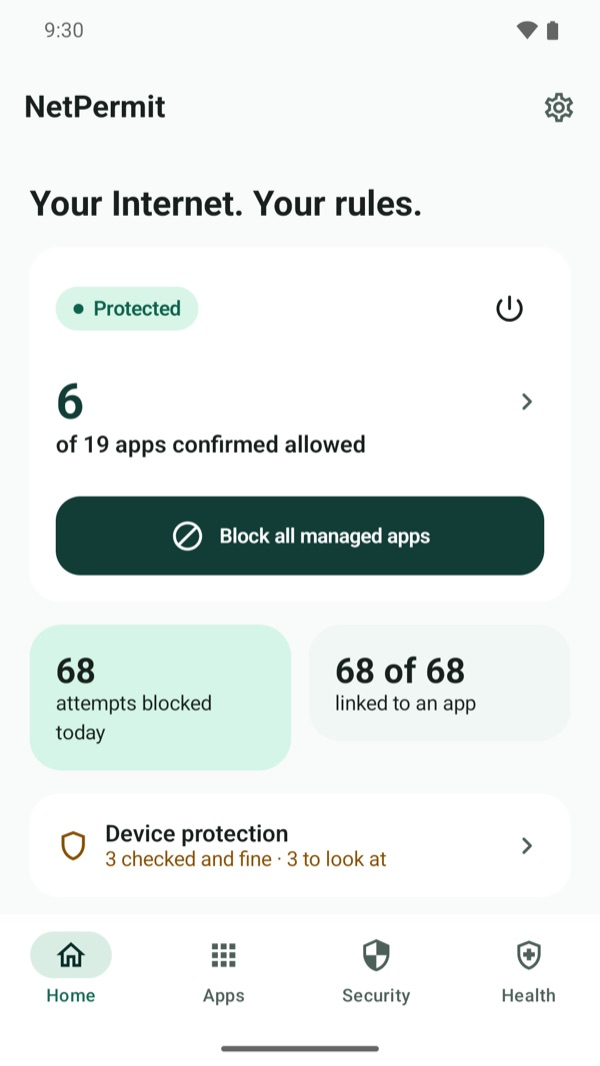
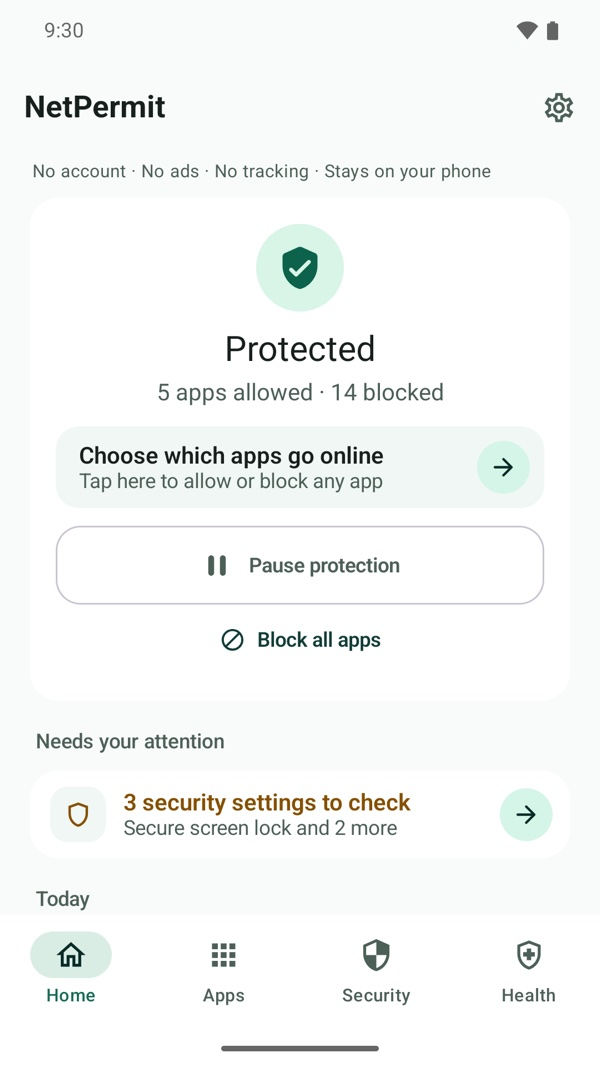
Build 10003: the guide, the privacy policy, the code maker's times, new pictures

diff --git a/maker.html b/maker.html
@@ -2,7 +2,7 @@
 <html lang="en">
 <head>
 <meta charset="utf-8">
-<meta http-equiv="Content-Security-Policy" content="default-src &#x27;none&#x27;; script-src &#x27;sha256-Tr03zSaOhH9XAYu4BYlneLDS7ZedYHuxEytHPte2XJQ=&#x27;; style-src &#x27;sha256-Qq+jYHkqgcq6RdACGlnDqksi6kZC2Gv7r2hBHCYuzGs=&#x27;; img-src &#x27;self&#x27; blob: data:; manifest-src &#x27;self&#x27;; base-uri &#x27;none&#x27;; form-action &#x27;none&#x27;">
+<meta http-equiv="Content-Security-Policy" content="default-src &#x27;none&#x27;; script-src &#x27;sha256-9wECum9mWq9CWfocOMv4rL7bZEbzpw2tdsrkdQMjoQg=&#x27;; style-src &#x27;sha256-e536MginbBdAjGdqKJFLe8NurTq5miR6hAd1Px3ku3w=&#x27;; img-src &#x27;self&#x27; blob: data:; manifest-src &#x27;self&#x27;; base-uri &#x27;none&#x27;; form-action &#x27;none&#x27;">
 <meta name="viewport" content="width=device-width, initial-scale=1, viewport-fit=cover">
 <title>NetPermit codes</title>
 <meta name="robots" content="noindex, nofollow">
@@ -45,6 +45,9 @@ button:disabled { opacity: .5; cursor: default; }
 label { display: block; font-weight: 600; margin: 14px 0 6px; }
 input { font: inherit; width: 100%; padding: 12px; border-radius: 10px; border: 1px solid var(--line); background: var(--bg); color: var(--ink); }
 input.code { letter-spacing: .08em; text-transform: uppercase; }
+input.amount { width: 6.5em; flex: 0 0 auto; }
+select { font: inherit; padding: 12px; border-radius: 10px; border: 1px solid var(--line); background: var(--bg); color: var(--ink); }
+#other-part { align-items: center; }
 details { margin-top: 14px; }
 summary { cursor: pointer; color: var(--accent); font-weight: 600; padding: 6px 0; }
 .qr { background: #ffffff; border-radius: 12px; padding: 4px; margin: 4px auto 14px; max-width: 320px; }
@@ -146,11 +149,24 @@ dialog li { margin-bottom: 10px; }
       <div id="any-part">
         <label>If nobody uses it, it stops working after</label>
         <div class="row" id="within">
+          <button class="pick" type="button" data-within="10m" aria-pressed="false">10 minutes</button>
+          <button class="pick" type="button" data-within="1h" aria-pressed="false">1 hour</button>
           <button class="pick" type="button" data-within="48h" aria-pressed="true">48 hours</button>
           <button class="pick" type="button" data-within="14d" aria-pressed="false">14 days</button>
           <button class="pick" type="button" data-within="60d" aria-pressed="false">60 days</button>
+          <button class="pick" type="button" data-within="other" aria-pressed="false">Other</button>
+        </div>
+        <div class="row gap" id="other-part" hidden>
+          <input class="amount" id="other-amount" type="number" min="1" max="999999" step="1" value="30" inputmode="numeric" aria-label="How long">
+          <select id="other-unit" aria-label="Minutes, hours or days">
+            <option value="m">minutes</option>
+            <option value="h">hours</option>
+            <option value="d">days</option>
+          </select>
+          <span class="soft">From 5 minutes to 365 days.</span>
         </div>
         <p class="soft gap">Until then it works on every phone it reaches, so shorter is safer.</p>
+        <p class="soft" id="short-note" hidden>A time that is not a whole number of days goes by the clock of the phone that uses the code, and that phone needs NetPermit build 10003 or newer. An older build says the code is not valid.</p>
       </div>
       <div id="one-part" hidden>
         <label for="phone">That phone's code</label>
@@ -216,7 +232,8 @@ dialog li { margin-bottom: 10px; }
     <h2>How codes work</h2>
     <ul>
       <li><strong>One phone only.</strong> Works on that phone and no other, so it cannot be passed on. It never expires. You need that phone's code first: in NetPermit, the gear, Plans, under "Have a code?".</li>
-      <li><strong>Any phone.</strong> Works on every phone it reaches until it stops: after 48 hours, or after 14 or 60 days if you choose that. Send it to one person. Never post it.</li>
+      <li><strong>Any phone.</strong> Works on every phone it reaches until it stops: after 48 hours, or after the time you choose, from 5 minutes to 365 days. Send it to one person. Never post it.</li>
+      <li><strong>Short times.</strong> A time in whole days works with every build. Any other time, such as 10 minutes or 1 hour, goes by the clock of the phone that uses the code, and that phone needs NetPermit build 10003 or newer.</li>
       <li><strong>Once per phone.</strong> A phone accepts a code one time. The 7 days, 30 days or year start when the code is used, not when you make it. If the app is erased and installed again, a code that has not stopped works again on that phone.</li>
       <li><strong>Sent is sent.</strong> A code cannot be cancelled. For anything valuable, above all a permanent gift, choose One phone only.</li>
       <li><strong>Gifts, not sales.</strong> Google requires anything sold in the app to go through Google Play.</li>
@@ -860,6 +877,21 @@ const core = (() => {
   pick('plans', 'plan', (button) => button.dataset.plan);
   pick('kinds', 'kind', (button) => button.dataset.kind);
   pick('within', 'within', (button) => button.dataset.within);
+  // What "Other" stands for: the number and the unit as one word, "25m", "3h" or "5d".
+  function chosenWait() {
+    if (choice.within !== 'other') return choice.within;
+    const amount = Math.floor(Number($('other-amount').value));
+    return (amount > 0 ? amount : 0) + $('other-unit').value;
+  }
+  // Whole days are read by every build; anything else needs the newer one, and the page says so.
+  function showWaitNotes() {
+    $('other-part').hidden = choice.within !== 'other';
+    const minutes = core.waitMinutes(chosenWait());
+    $('short-note').hidden = minutes === null || minutes % 1440 === 0;
+  }
+  $('within').addEventListener('click', showWaitNotes);
+  $('other-amount').addEventListener('input', showWaitNotes);
+  $('other-unit').addEventListener('change', showWaitNotes);
   $('kinds').addEventListener('click', () => {
     $('any-part').hidden = choice.kind !== 'any';
     $('one-part').hidden = choice.kind !== 'one';
@@ -908,10 +940,11 @@ const core = (() => {
       phone = core.phoneBytes($('phone').value.trim());
       if (!phone) return say('problem', 'Type that phone\'s code first. It is eight letters and digits, shown in NetPermit on the Plans page under "Have a code?", for example K7QF-2M9X.');
     }
-    // The page offers whole days only (48 hours, 14 days, 60 days). A time to the minute is read
-    // by build 10003 and later, and is not offered here until that build is the one people have.
-    const wait = core.WAITS[choice.within];
-    if (!onePhone && !(wait % 1440 === 0)) return say('problem', 'Choose how long it can wait to be used.');
+    // One of the buttons, or "Other": a number and a unit, between five minutes and a year. A time
+    // that is not whole days is kept to the minute, which build 10003 and later read; the page
+    // says so beside the choice and again with the code.
+    const wait = onePhone ? null : core.waitMinutes(chosenWait());
+    if (!onePhone && wait === null) return say('problem', 'Choose how long it can wait to be used: from 5 minutes to 365 days.');
     const note = $('note').value.trim().slice(0, 120);
     const now = new Date();
     const last = core.lastUseFor(onePhone, wait, now.getTime());

diff --git a/how-to.html b/how-to.html
@@ -68,8 +68,20 @@
 <p>It starts blocked. NetPermit sends a notification with two buttons, <strong>Allow</strong> and
 <strong>Keep blocked</strong>. You can also change it later in Apps.</p>
 
+<h3>When an app you blocked won't load</h3>
+<p>If you open an app NetPermit is blocking and it tries to go online, Home says so under
+<strong>Needs your attention</strong>: the app wanted to go online, with <strong>Allow</strong> and
+<strong>Keep blocked</strong> beside it. Keep blocked means NetPermit does not ask about that app
+again.</p>
+<p>You can have the same question as a notification, so it reaches you inside the app that will not
+load. Open <strong>Settings and more</strong>, then <strong>Settings</strong>, and switch on
+<strong>Ask me about a blocked app I am using</strong>. It is off until you turn it on, it asks once
+per app, and it never asks about what runs in the background. To tell which app you have open,
+NetPermit needs Android's Usage Access, which only you can give; the app takes you to the page.
+On Plus and Pro the notification also offers 15 minutes.</p>
+
 <h3>Seeing what blocked apps tried to do</h3>
-<p>On Home, tap <strong>attempts blocked today</strong>. Blocked activity lists each app with the
+<p>On Home, tap the line that counts <strong>attempts blocked</strong>. Blocked activity lists each app with the
 site it asked for and how many times it tried. This record stays on your phone. It is kept for
 1 day on Free, 7 days on Plus and 30 days on Pro. You can empty it there with
 <strong>Clear activity</strong>, or switch off <strong>Keep blocked activity</strong> in Settings.</p>
@@ -86,14 +98,24 @@ same list, or tap <strong>Allow them all again</strong>.</p>
 <figure class="shot"><img src="assets/shots/services.jpg" alt="The Background services screen" width="300" height="533" loading="lazy"><figcaption>Everything with no icon, and one button to tighten it.</figcaption></figure>
 
 <h3>Pausing</h3>
-<p>On Home, tap the power button. You can pause for 15 minutes or 1 hour, and protection turns
-itself back on. Or choose <strong>Pause until I turn it back on</strong>. If your phone has a screen
-lock, Android asks for your fingerprint, face or PIN first, so that nobody else can switch
-protection off. While paused, nothing is blocked, and NetPermit says so.</p>
+<p>On Home, tap <strong>Pause protection</strong> (in earlier versions, the power button at the
+top). You can pause for 15 minutes or 1 hour, and protection turns itself back on. Or choose
+<strong>Pause until I turn it back on</strong>. If you switched on <em>Ask for my screen lock</em>,
+Android asks for your fingerprint, face or PIN first, so that nobody else can switch protection
+off. While paused, nothing is blocked, and NetPermit says so.</p>
 
 <h3>Blocking everything at once</h3>
-<p>Tap <strong>Block all managed apps</strong> on Home, or add the NetPermit tile to Quick Settings.
+<p>Tap <strong>Block all apps</strong> on Home, or add the NetPermit tile to Quick Settings.
 It blocks every app and leaves the parts the phone needs alone.</p>
+
+<h3>Android's own privacy settings</h3>
+<p>The <strong>Security</strong> tab has a section called <strong>Privacy on this phone</strong>.
+Each line opens the page in Android where that setting lives: which apps used your location,
+camera and microphone, whether location is on, your advertising ID, the apps you no longer use,
+and Private DNS. NetPermit shows what Android lets it read and takes you to the rest. It does not
+change any of them.</p>
+<p>Cookies are kept by your browser, not by Android, and NetPermit cannot see or change them. The
+same section says where each browser on your phone keeps that setting.</p>
 
 <h2>Plus and Pro</h2>
 
@@ -160,7 +182,9 @@ under <strong>Have a code?</strong>.</p>
 <p>A code gives Plus or Pro for the time it was made for, which can be a week, a month, a year or
 without an end. It is not a purchase and it does not renew; when it ends, the app returns to the
 plan you had and your rules are kept. A code is made either for one phone or for any phone. One
-made for any phone has to be used soon, usually within two days, and then stops working. One made
+made for any phone has to be used soon, usually within two days and sometimes within minutes, and
+then stops working. If NetPermit says such a code is not valid, update NetPermit and try again:
+a code timed to the minute needs a recent version. One made
 for one phone works on that phone only and does not stop: if you are asked for <em>this phone's
 code</em>, it is shown under <strong>Have a code?</strong>.</p>
 

diff --git a/privacy.html b/privacy.html
@@ -29,7 +29,7 @@
 <main id="main">
   <div class="wrap">
 <h1>Privacy policy</h1>
-<p class="updated">Effective 21 November 2026. This policy covers the NetPermit app for Android
+<p class="updated">Effective 23 November 2026. This policy covers the NetPermit app for Android
 (<code>com.netpermit.app</code>) and this website.</p>
 
 <div class="plain"><p><strong>The short version.</strong> NetPermit controls which apps on your phone
@@ -65,8 +65,11 @@ anything.</p>
   on Pro. You can delete it, or switch recording off, in the app at any time.</li>
   <li><strong>Counts and history.</strong> How many connection attempts were blocked, and when
   protection was on, off or could not be confirmed.</li>
-  <li><strong>App usage time</strong>, only if you choose to grant Android's Usage Access
-  permission. It is optional.</li>
+  <li><strong>App usage time, and which app is open</strong>, only if you choose to grant
+  Android's Usage Access permission. It is optional. NetPermit uses it to show how long apps were
+  used, and to ask about a blocked app you are using rather than about every app that tries to
+  connect in the background. Which app is open is looked at when it is needed and is not
+  kept.</li>
   <li><strong>Device health and security settings</strong> read from Android, for example the
   battery level or whether a screen lock is set, so the app can show them to you.</li>
   <li><strong>Which plan you have.</strong></li>
@@ -98,10 +101,12 @@ only to answer you.</p>
     <tr><td>List of installed apps</td><td>So that every app and system component has a switch.
     Used on the phone only.</td></tr>
     <tr><td>Notifications</td><td>To show that protection is on, to tell you when a new app has been
-    blocked, and to tell you if Android turns NetPermit off.</td></tr>
+    blocked, to tell you if Android turns NetPermit off, and, only if you switch it on, to ask
+    whether to allow a blocked app you are using.</td></tr>
     <tr><td>Run at startup</td><td>So protection comes back after a restart, if you had it on.</td></tr>
-    <tr><td>Usage Access (optional)</td><td>To show how long you used each app. You grant it in
-    Android's settings and can leave it off.</td></tr>
+    <tr><td>Usage Access (optional)</td><td>To show how long you used each app, and to tell which
+    app you have open so that NetPermit asks about that app only. You grant it in Android's
+    settings and can leave it off.</td></tr>
     <tr><td>Internet and network state</td><td>Needed to run a VPN interface and to notice when
     your connection changes between Wi-Fi and mobile data. The app does not contact any
     server.</td></tr>

diff --git a/index.html b/index.html
@@ -38,8 +38,8 @@
 
 <div class="gallery">
   <img src="assets/store/1-your-phone-your-rules.jpg" alt="Your phone. Your rules. The app list: five apps switched on, the rest switched off" width="540" height="960">
-  <img src="assets/store/2-silence-them-all.jpg" alt="One tap. Silence them all. NetPermit's Home screen: protected, 21 of 153 apps allowed, 196 attempts blocked today" width="540" height="960" loading="lazy">
-  <img src="assets/store/3-privacy-checkup.jpg" alt="How private is your phone? The Security screen: one setting to review, and a review of 153 apps with 28 recommendations" width="540" height="960" loading="lazy">
+  <img src="assets/store/2-silence-them-all.jpg" alt="One tap. Silence them all. NetPermit's Home screen: protected, 5 apps allowed and 14 blocked, with Pause protection and Block all apps, and 39 attempts blocked today" width="540" height="960" loading="lazy">
+  <img src="assets/store/3-why-does-it-need-the-internet.jpg" alt="Why does a flashlight need the Internet? NetPermit's Home screen saying that two blocked apps, a flashlight and a card game, wanted to go online, each with Allow and Keep blocked" width="540" height="960" loading="lazy">
 </div>
 
 <h2>You decide</h2>

diff --git a/terms.html b/terms.html
@@ -29,7 +29,7 @@
 <main id="main">
   <div class="wrap">
 <h1>Terms and payments</h1>
-<p class="updated">Effective 21 November 2026.</p>
+<p class="updated">Effective 23 November 2026.</p>
 
 <div class="plain"><p><strong>The short version.</strong> NetPermit is free to use as a firewall.
 Plus and Pro are optional and are bought through Google Play, which handles the payment, the
